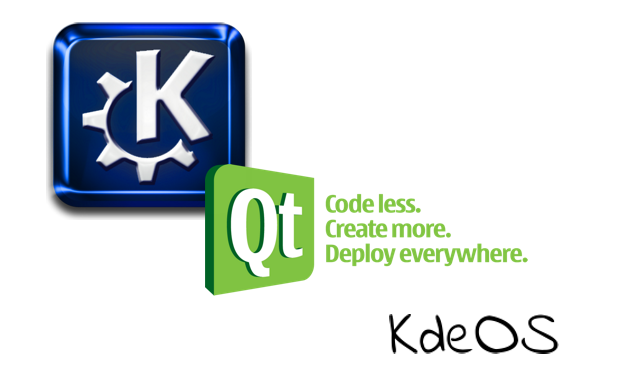
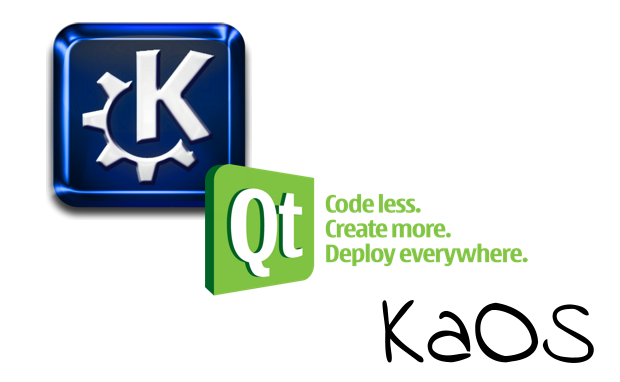
convert tribe to KaOS

Changed region(s): [[0.6129, 0.7775, 0.9806, 0.9503]]

diff --git a/RELEASE_NOTES.html b/RELEASE_NOTES.html
@@ -1,13 +1,13 @@
 <!DOCTYPE html PUBLIC "-//W3C//DTD XHTML 1.0 Strict//EN" "http://www.w3.org/TR/xhtml1-strict.dtd "> 
 <html xmlns="http://www.w3.org/1999/xhtml" xml:lang="en" lang="en"> 
 <head> 
-<title>The Chakra Project - Release Note</title> 
+<title>KaOS - Release Note</title> 
 <meta http-equiv="content-type" content="text/html; charset=utf-8" /> 
 </head>
 <body> 
 	<h3>Chakra - VERSION</h3>
 	<hr width="100%">
-	The Chakra Development Team is proud to announce <br>
+	The KaOS is proud to announce <br>
 	<br>
 	What changed:<br>
 	<ul>
@@ -16,27 +16,10 @@
 	</ul>
 	Read the "Build Notes" for further information.<br>
 	 <br>
-	Good news about <a href="http://chakra-project.org/ccr/">CCR</a>, our community repository:  <br>
-	You can find now over XYZ packages added by our users.<br>
-	Some of those already found their way into our binary repositories.<br>
-	<br>
-	Getting Gimp and other "must have" non-Qt/KDE apps into Chakra you can use <a href="http://chakra-project.org/bundles.html">CBS</a> - the bundle system<br>
-	was created exclusively for Chakra. Learn more about it in our <a href="http://www.chakra-project.org/wiki/index.php/Bundle_System">wiki</a>.<br>
-	<br>
 	All the best<br>
 	<br>
-	IMAGEBUILDERNAME and the Team behind Chakra-Linux<br>
 	<hr width="100%">
 	<h4>Build-Notes</h4>
-	<h4>Larch</h4>
-	Chakra GNU/Linux uses Larch8 series now.
-	<h4>GTK2+</h4>
-	This image is gtk2 free, so you will miss flashplugin in this image. Also you can't start nvidia-settings since it<br>
-	needs gtk2 too. Use nvidia-xconfig instead. You can always install missing packages with pacman/cinstall from our repositories.<br>
-	<br>
-	Read more about gtk-freeness <a href="http://chakra-project.org/bbs/viewtopic.php?id=2787">here</a>.<br>
-	<h4>Debug Packages</h4>
-	Now you can install debug-packages for KDE SC again. Just type this cmd: sudo pacman -Sy kde-debug<br>
 	<h4>Log Packages</h4>
 	Now you can install log-packages for some of the packages in our desktop repository. Just type this cmd: sudo pacman -Sy chakra-log<br>
 	<h4>VGA_SWITCHEROO and ACPI_CALL</h4>

diff --git a/src/pages/configpage.cpp b/src/pages/configpage.cpp
@@ -2,7 +2,7 @@
  * Copyright (c) 2008, 2009  Dario Freddi <drf@chakra-project.org>
  *               2010        Drake Justice <djustice.kde@gmail.com>
  *               2012        Manuel Tortosa (manutortosa@chakra-project.org)
- *               2011-2013   Anke Boersma <demm@kde-os.tk>
+ *               2011-2013   Anke Boersma <demmkaos@gmail.com>
  *
  * This program is free software; you can redistribute it and/or modify
  * it under the terms of the GNU General Public License as published by
@@ -96,7 +96,7 @@ void ConfigPage::createWidget()
     // first call to check internet connection
     connect(&networkManager, SIGNAL(finished(QNetworkReply*)),
              this, SLOT(handleNetworkData(QNetworkReply*)));
-    networkManager.get(QNetworkRequest(QString("http://kde-os.tk")));
+    networkManager.get(QNetworkRequest(QString("http://kaosx.us")));
 
     // check installed kde version
     /* QProcess proc;
@@ -188,13 +188,13 @@ void ConfigPage::result(KJob* job)
     }
 
     if (m_incomingExtension == ".jpeg") {
-        KUrl r(QUrl("http://kde-os.tk/packages/screenshots/" +
+        KUrl r(QUrl("http://kaosx.us/packages/screenshots/" +
                     m_incomingList.at(m_incomingIncr) + m_incomingExtension));
         m_job = KIO::get(r, KIO::Reload, KIO::Overwrite | KIO::HideProgressInfo);
         connect(m_job, SIGNAL(data(KIO::Job*,QByteArray)), this, SLOT(incomingData(KIO::Job*, QByteArray)));
         connect(m_job, SIGNAL(result(KJob*)), this, SLOT(result(KJob*)));
     } else {
-        KUrl r(QUrl("http://kde-os.tk" + m_currentBranch + "/" +
+        KUrl r(QUrl("http://kaosx.us" + m_currentBranch + "/" +
                     m_currentArch + "/" + m_incomingList.at(m_incomingIncr)));
         m_job = KIO::get(r, KIO::Reload, KIO::Overwrite | KIO::HideProgressInfo);
         connect(m_job, SIGNAL(data(KIO::Job*,QByteArray)), this, SLOT(incomingData(KIO::Job*, QByteArray)));
@@ -261,7 +261,7 @@ void ConfigPage::bundlesDownloadButtonClicked()
              this, SLOT(handleNetworkData(QNetworkReply*)));
 
     //use the url of the preferred mirror
-    networkManager.get(QNetworkRequest(QString("http://kde-os.tk")));
+    networkManager.get(QNetworkRequest(QString("http://kaosx.us")));
     if (m_currentOnlineStatus == "Offline") {
         QString completeMessage = i18n("Sorry, you have no internet connection at the moment \n"
                                        "Will stop bundle(s) installation now");
@@ -323,7 +323,7 @@ void ConfigPage::bundlesDownloadButtonClicked()
 
     // TODO: use QJSon here instead, that's crap.
     foreach (QString bundle, checkedList) {
-        m_process->start("bash -c \"echo $(rsync -avh --list-only kdeos@kde-os.tk::kdeos/bundles" +
+        m_process->start("bash -c \"echo $(rsync -avh --list-only kaos@kaosx.us::kaos/bundles" +
                           m_currentBranch + "/" + m_currentArch +
                          "/" + bundle + "*  | cut -d\':\' -f3 | cut -d\' \' -f2)\"");
         m_process->waitForFinished();
@@ -335,7 +335,7 @@ void ConfigPage::bundlesDownloadButtonClicked()
         }
     }
 
-    KUrl r(QUrl("http://kde-os.tk/bundles" + m_currentBranch + "/" +
+    KUrl r(QUrl("http://kaosx.us/bundles" + m_currentBranch + "/" +
                  m_currentArch + "/" + m_incomingList.at(m_incomingIncr)));
     m_job = KIO::get(r, KIO::Reload, KIO::Overwrite | KIO::HideProgressInfo);
     connect(m_job, SIGNAL(data(KIO::Job*,QByteArray)), this, SLOT(incomingData(KIO::Job*, QByteArray)));

diff --git a/src/main.cpp b/src/main.cpp
@@ -42,7 +42,7 @@
 int main(int argc, char *argv[])
 {
     KAboutData aboutData("tribe", 0, ki18n("Tribe"),
-    TRIBE_VERSION, ki18n("Graphical Installer for KdeOS, forked from the Chakra-Project"), KAboutData::License_GPL,
+    TRIBE_VERSION, ki18n("Graphical Installer for KaOS, forked from the Chakra-Project"), KAboutData::License_GPL,
                         ki18n("(c) 2008 - 2012 the Chakra Development Team"), ki18n("chakra@chakra-project.org"), "http://chakra-project.org");
     aboutData.addAuthor(ki18n("Manuel Tortosa"), ki18n("Maintainer"), "manutortosa@chakra-project.org", "http://chakra-project.org"); 
     aboutData.addAuthor(ki18n("Dario Freddi"), ki18n("Developer"), "drf@chakra-project.org", "http://drfav.wordpress.com");
@@ -52,7 +52,7 @@ int main(int argc, char *argv[])
     aboutData.addAuthor(ki18n("Drake Justice"), ki18n("Developer"), "djustice@chakra-project.org", "");
     aboutData.addAuthor(ki18n("Georg Grabler"), ki18n("Developer"), "ggrabler@gmail.com", "");
     aboutData.addAuthor(ki18n("Daniele Cocca"), ki18n("Developer"), "jmc@chakra-project.org", "");
-    aboutData.setBugAddress("http://kde-os.tk/bbs/");
+    aboutData.setBugAddress("http://kaosx.us/phpBB3/");
 
     KCmdLineArgs::init(argc, argv, &aboutData);
 
@@ -81,7 +81,7 @@ int main(int argc, char *argv[])
     
         if (ram < MIN_MEMORY) {
             int m = KMessageBox::warningContinueCancel(0, i18n("Your system does not meet the minimal memory needed\n"
-                    "for installing KdeOS with Tribe (1gb), total available memory: %1 mbytes\n\n"
+                    "for installing KaOS with Tribe (1gb), total available memory: %1 mbytes\n\n"
                     "Continue at your own risk", ram));
             if (m == KMessageBox::Cancel)
                 return 0;

diff --git a/src/pages/netinstpage.cpp b/src/pages/netinstpage.cpp
@@ -37,7 +37,7 @@ void NetInstPage::createWidget()
     if (!loadGroupList()) {
         qDebug() << "Not connected";
         ui.netinst->setEnabled(false);
-        ui.netinst->setText(i18n("Network Installation. (Disabled: Unable to fetch package lists, check your network connection)"));
+        ui.netinst->setText(i18n("Network Installation. (Disabled: not an available option at this time)"));
         return;
     }
 
@@ -70,7 +70,7 @@ void NetInstPage::aboutToGoToPrevious()
 
 bool NetInstPage::loadGroupList()
 {
-    QString confUrl("https://github.com/KdeOs/Tribe/raw/master/data/netinstall.conf");
+    QString confUrl("https://github.com/KaOSx/Tribe/raw/master/data/xx.conf");
 
     KIO::Job* getJob = KIO::get(confUrl, KIO::Reload, KIO::Overwrite | KIO::HideProgressInfo);
     QByteArray data;

diff --git a/src/pmhandler.cpp b/src/pmhandler.cpp
@@ -253,7 +253,7 @@ void PMHandler::preparePartitions(const Partition* p, Device *dev)
         rootPartition->setFileSystem(FileSystemFactory::create(FileSystem::Ext4,
                                                                rootPartition->firstSector(),
                                                                rootPartition->lastSector(),
-                                                               -1, "KdeOS"));
+                                                               -1, "KaOS"));
         operationStack().push(new NewOperation(*dev, rootPartition));
         m_mounts[dev->deviceNode()].insert(rootPartition->firstSector(), "/");
         qDebug() << "Will create root partition at " << rootPartition->firstSector();

diff --git a/src/pages/usercreationpage.cpp b/src/pages/usercreationpage.cpp
@@ -42,7 +42,7 @@ void UserCreationPage::createWidget()
     ui.setupUi(this);
     ui.addUser->setIcon(KIcon("list-add"));
 
-    ui.hostname->setText("kdeos");
+    ui.hostname->setText("kaos");
 
     connect(ui.addUser, SIGNAL(clicked(bool)), this, SLOT(addUserClicked()));
 
@@ -222,7 +222,7 @@ bool UserCreationPage::validate()
     m_handler->setUserAutoLoginList(autoLoginList);
 
     if (ui.hostname->text().isEmpty())
-        ui.hostname->setText("kdeos");
+        ui.hostname->setText("kaos");
 
     m_handler->setHostname(ui.hostname->text());
 
